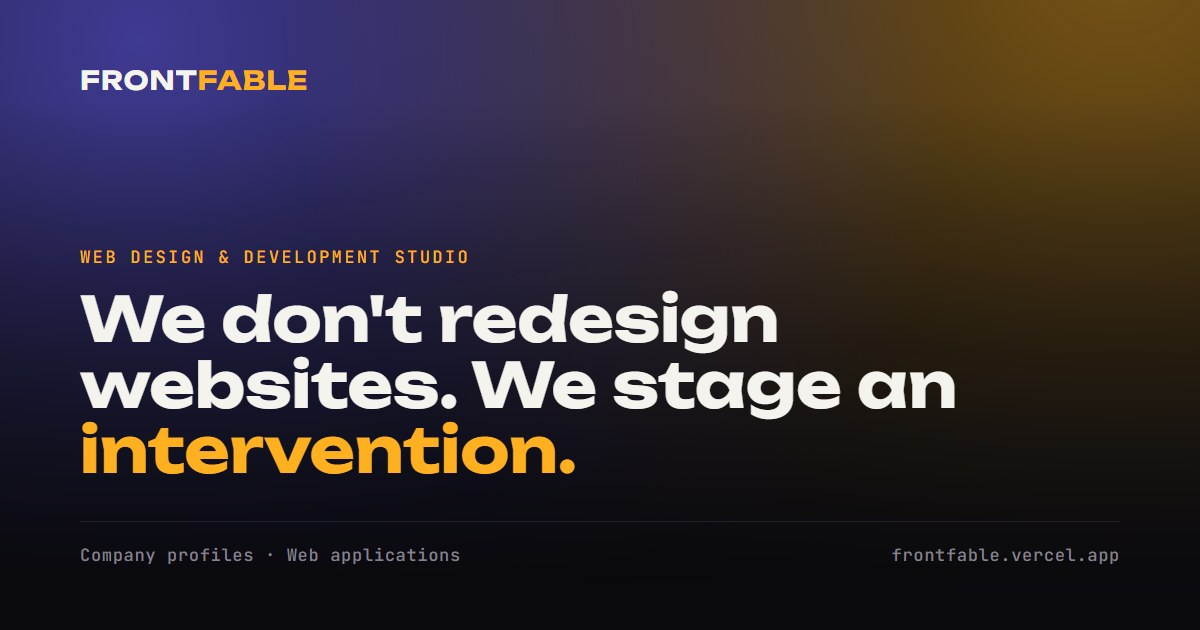
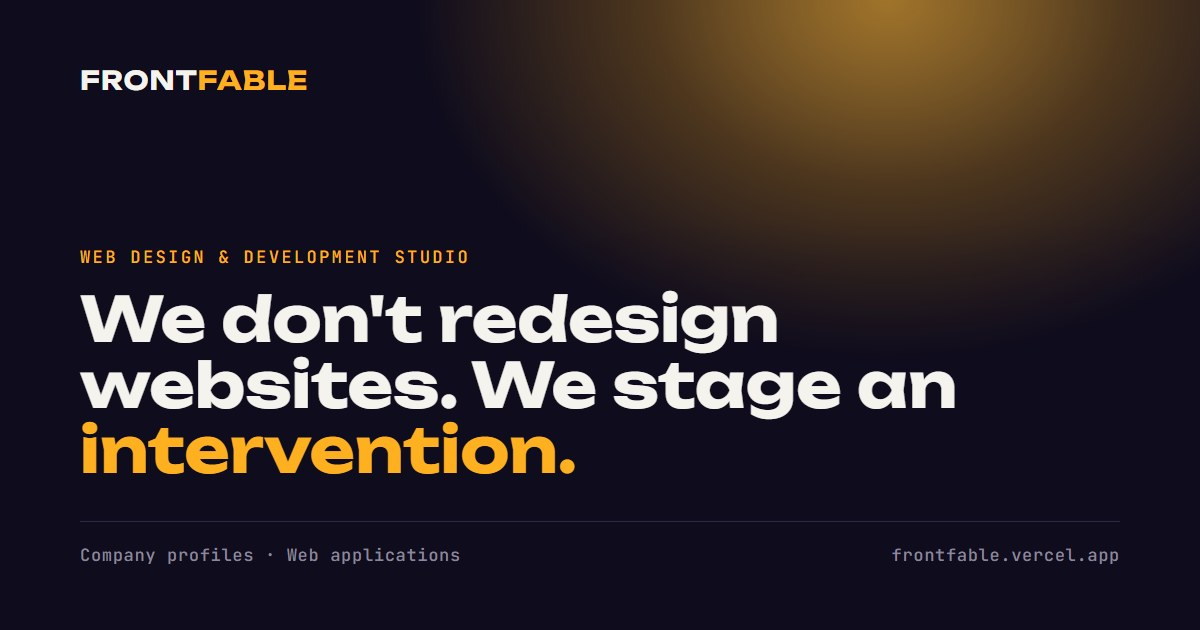
Move the palette from near-black to deep indigo
The indigo background makes the violet button hover feel like part of the
palette and gives the gold accent more contrast. The grey text tones get a
slight lavender tint and stay at 4.5:1 or better on every surface. The browser
theme color, favicons and link preview image are updated to match, and the
preview now shows the gold spotlight from the hero.

diff --git a/css/styles.css b/css/styles.css
@@ -1,16 +1,16 @@
 :root {
-  --bg: #0A0A0E;
-  --surface: #131218;
-  --surface-2: #1B1A22;
+  --bg: #0F0C1D;
+  --surface: #18142B;
+  --surface-2: #211C38;
   --ink: #F5F3ED;
-  --ink-soft: #9C97A8;
-  --ink-faint: #86818F;
-  --ink-ghost: #64606E;
+  --ink-soft: #A29DB4;
+  --ink-faint: #8C879C;
+  --ink-ghost: #6E6886;
   --accent: #FFB020;
   --accent-ink: #241800;
   --accent-2: #6C63FF;
-  --line: #242230;
-  --card-bg: #15141B;
+  --line: #2E2850;
+  --card-bg: #1A162E;
   --gutter: clamp(20px, 5.5vw, 68px);
   --gl: max(var(--gutter), env(safe-area-inset-left, 0px));
   --gr: max(var(--gutter), env(safe-area-inset-right, 0px));

diff --git a/index.html b/index.html
@@ -3,7 +3,7 @@
 <head>
 <meta charset="UTF-8">
 <meta name="viewport" content="width=device-width, initial-scale=1.0, viewport-fit=cover">
-<meta name="theme-color" content="#0A0A0E">
+<meta name="theme-color" content="#0F0C1D">
 <title>FrontFable — Web Design &amp; Development Studio</title>
 <meta name="description" content="FrontFable redesigns company profile websites and builds the web applications behind them.">
 <link rel="canonical" href="https://frontfable.vercel.app/">
